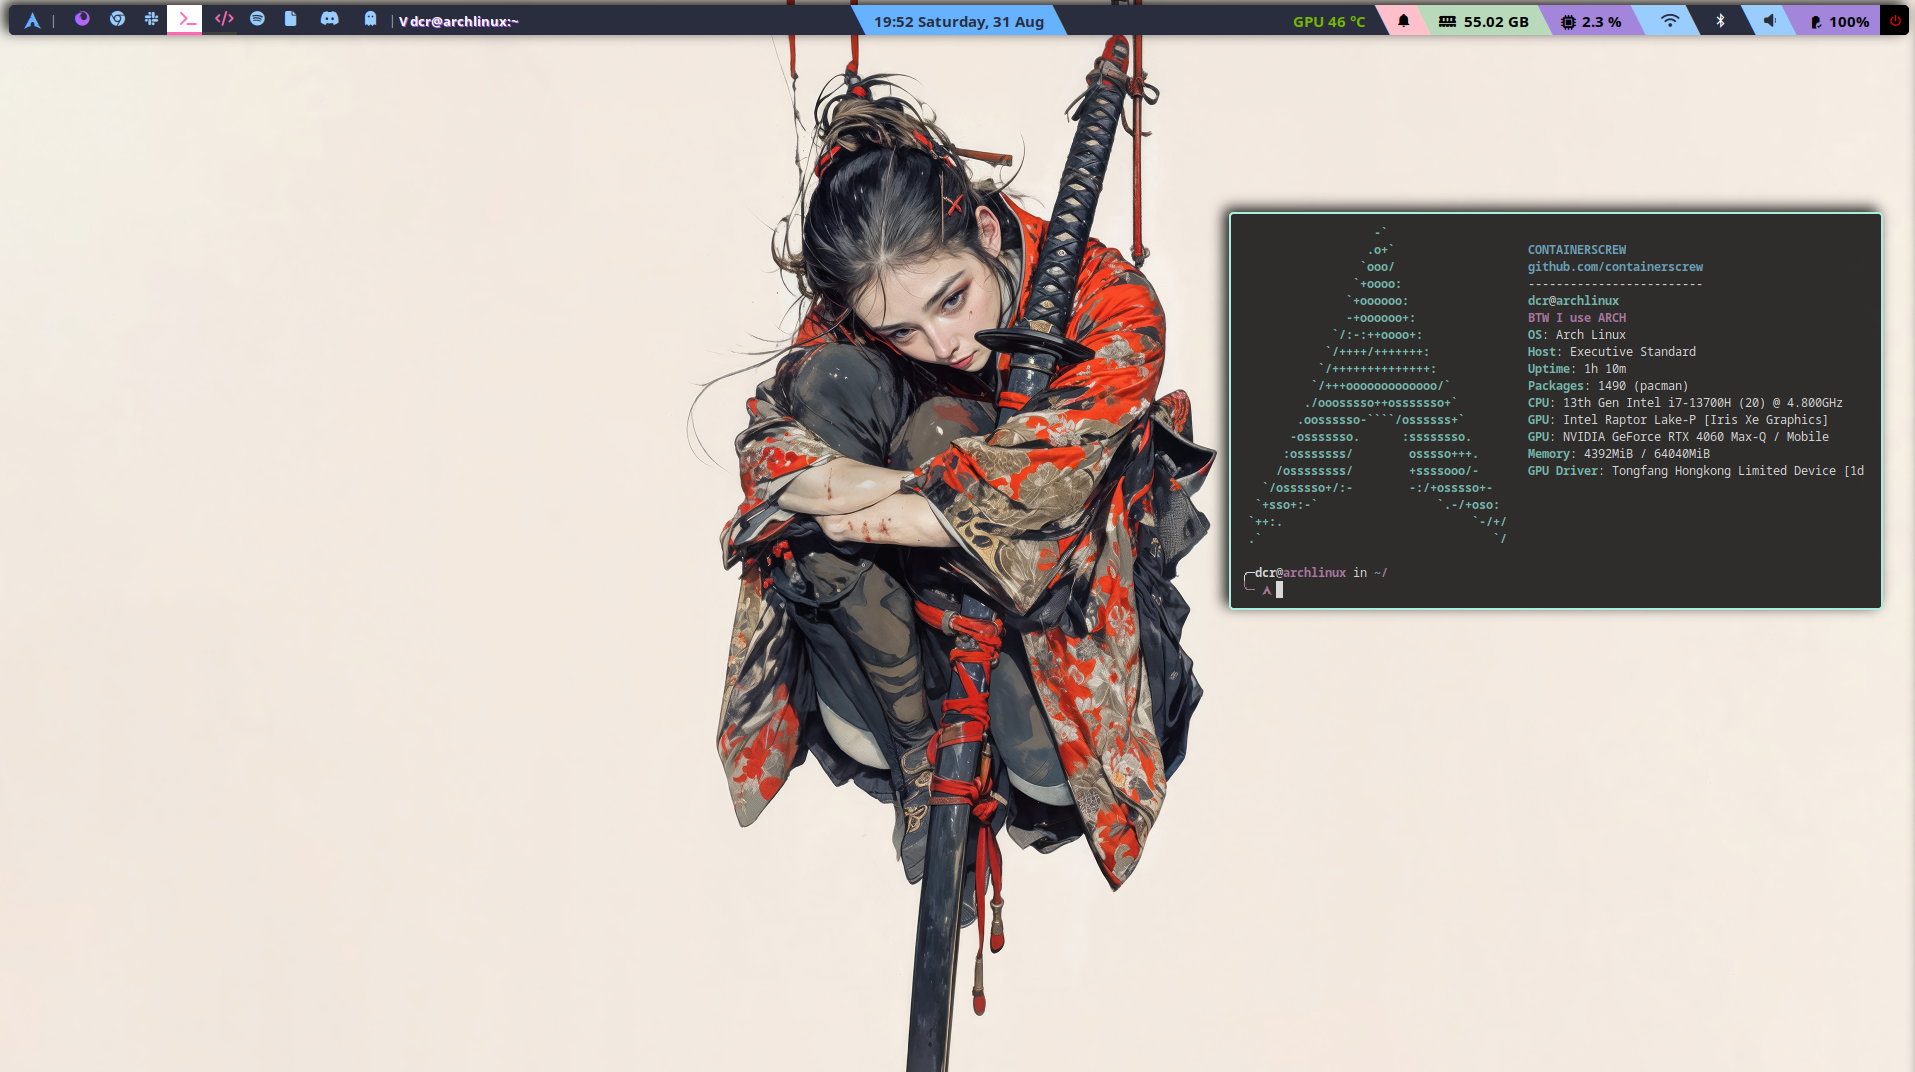
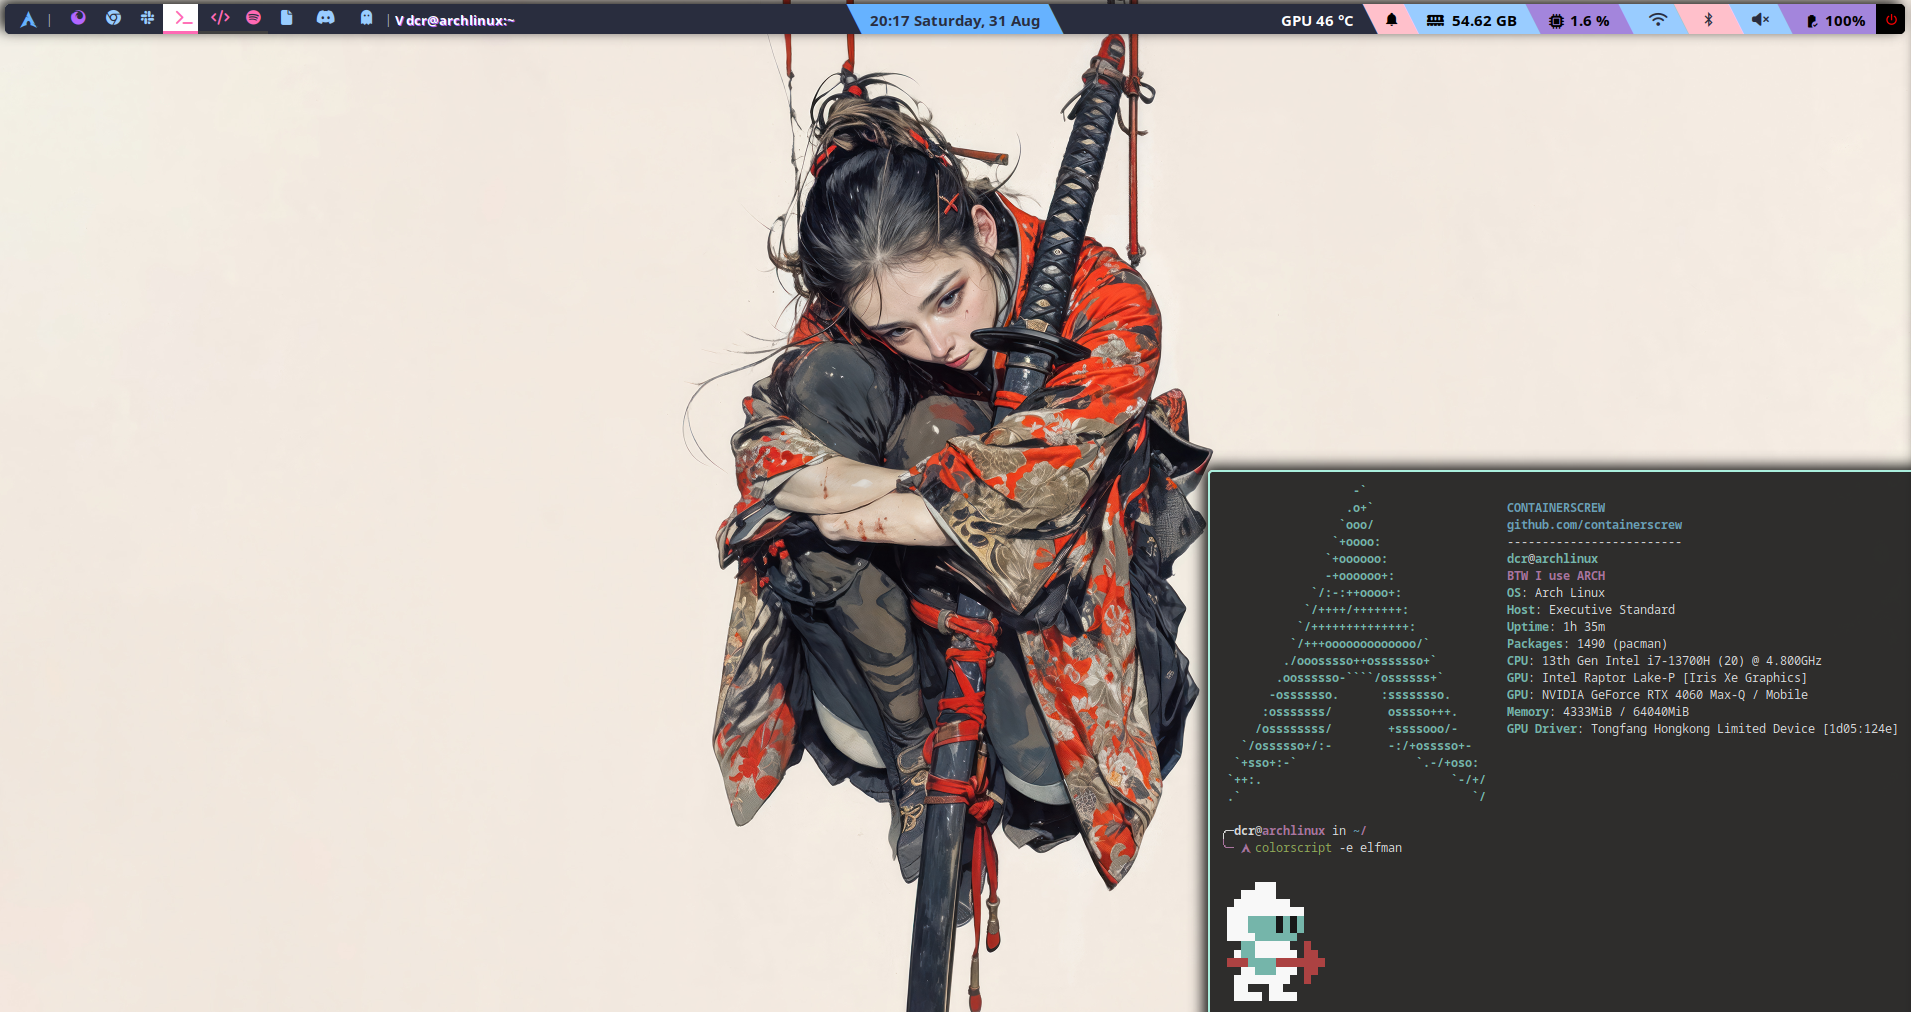
Update qtile bar and examples

diff --git a/config/qtile/configs/screens.py b/config/qtile/configs/screens.py
@@ -107,7 +107,7 @@ default = [
         format="GPU {temp} °C",
         font=xf,
         fontsize=xx,
-        foreground=Colors.nvidia_green,
+        foreground=Colors.white,
     ),
     diagonal_sep(fg=Colors.pink, bg=Colors.background),
     widget.DoNotDisturb(
@@ -118,16 +118,16 @@ default = [
         font=xf,
         fontsize=xx,
     ),
-    diagonal_sep(fg=Colors.lightgreen, bg=Colors.pink),
+    diagonal_sep(fg=Colors.lightblue, bg=Colors.pink),
     widget.Memory(
-        background=Colors.lightgreen,
+        background=Colors.lightblue,
         foreground=Colors.black,
         font=xf,
         fontsize=xx,
         measure_mem="G",
         format=" {MemFree: .2f} GB",
     ),
-    diagonal_sep(fg=Colors.violet, bg=Colors.lightgreen),
+    diagonal_sep(fg=Colors.violet, bg=Colors.lightblue),
     widget.CPU(
         background=Colors.violet,
         foreground=Colors.black,
@@ -167,19 +167,19 @@ default = [
             ),
         ],
     ),
-    diagonal_sep(fg=Colors.background, bg=Colors.lightblue),
+    diagonal_sep(fg=Colors.pink, bg=Colors.lightblue),
     widget.WidgetBox(
         font=xf,
         fontsize=xx,
         text_closed="",
         text_open="",
-        foreground=Colors.white,
-        background=Colors.background,
+        foreground=Colors.background,
+        background=Colors.pink,
         padding=10,
         widgets=[
             widget.Bluetooth(
-                foreground=Colors.white,
-                background=Colors.background,
+                foreground=Colors.background,
+                background=Colors.pink,
                 font=xf,
                 fontsize=xx,
                 default_text="{connected_devices}",
@@ -188,7 +188,7 @@ default = [
             ),
         ],
     ),
-    diagonal_sep(fg=Colors.lightblue, bg=Colors.background),
+    diagonal_sep(fg=Colors.lightblue, bg=Colors.pink),
     widget.PulseVolume(
         background=Colors.lightblue,
         foreground=Colors.background,
